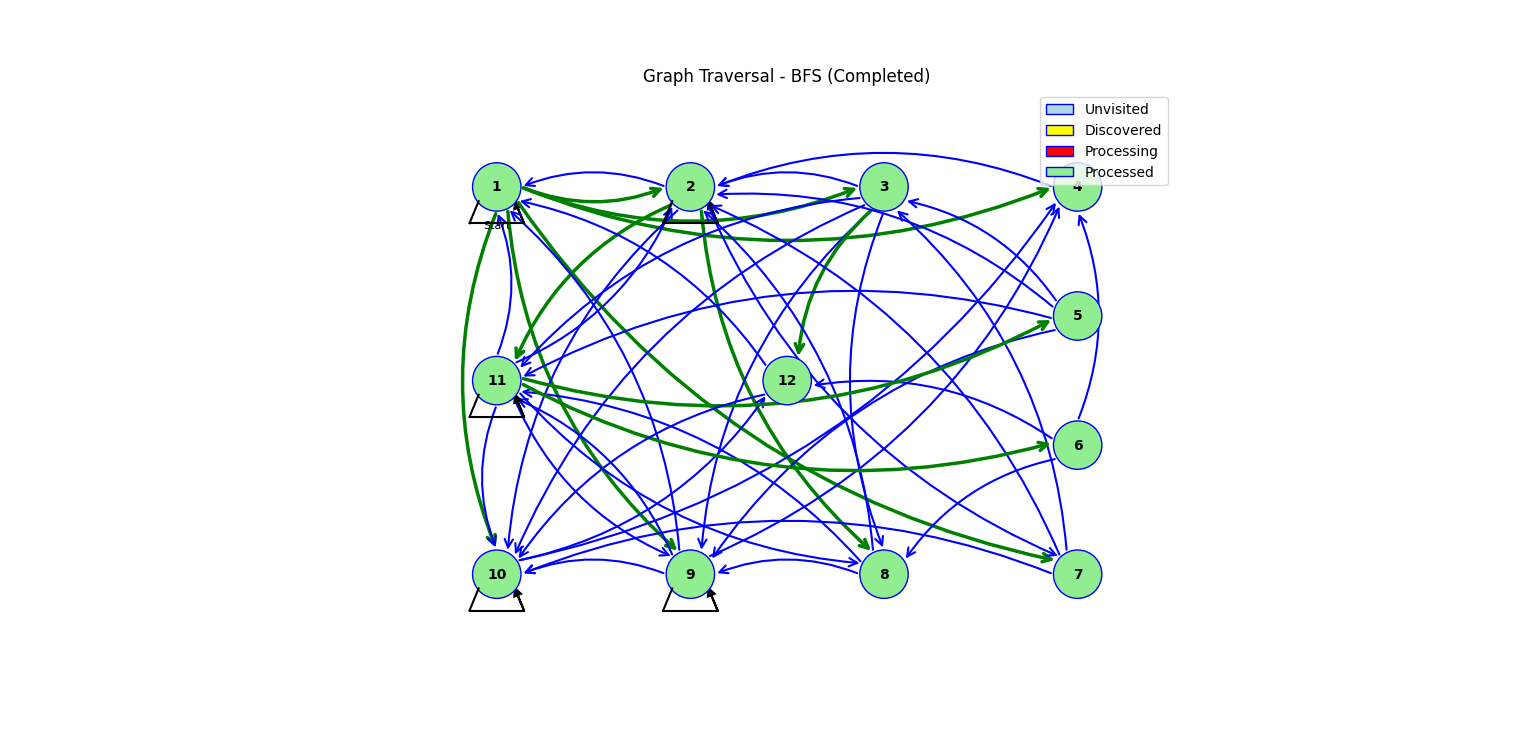
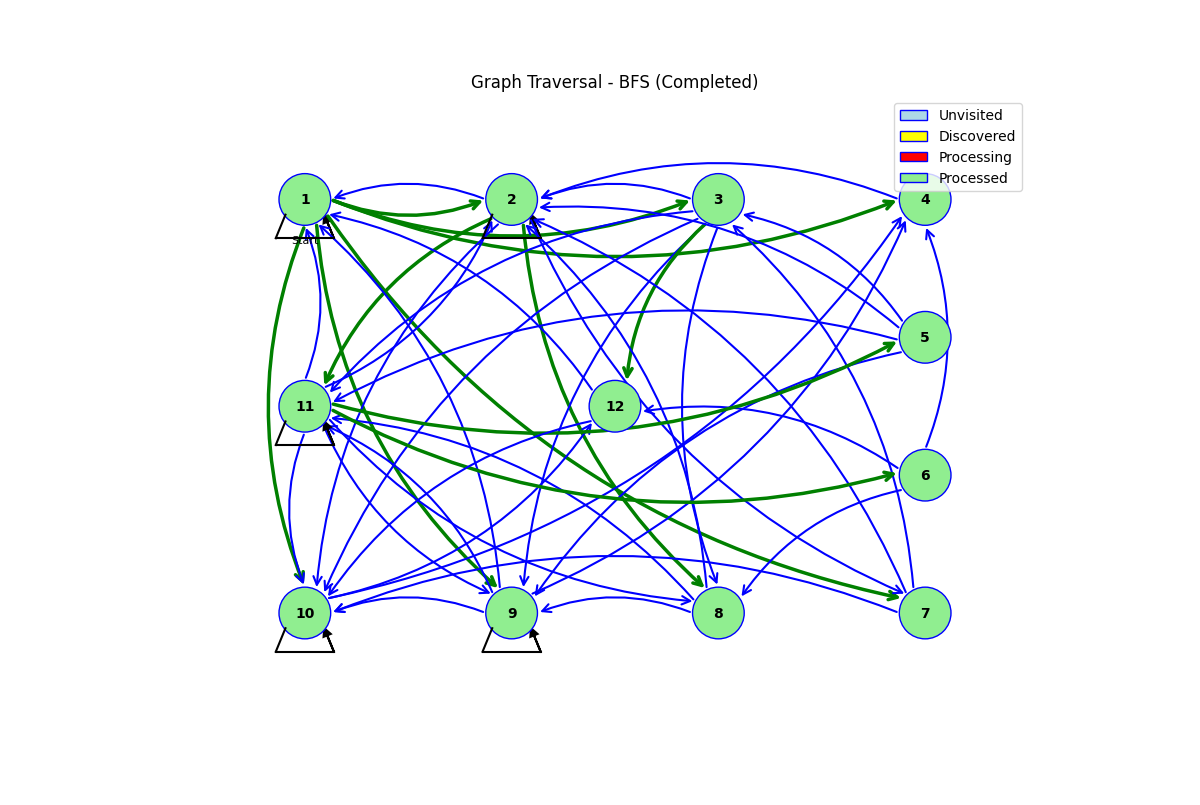
add lab 5

Changed region(s): [[0.2158, 0.122, 0.8633, 0.8236], [0.4008, 0.0915, 0.6475, 0.122]]

diff --git a/lab 5 copy/traversal_methods.py b/lab 5 copy/traversal_methods.py
@@ -2,6 +2,7 @@ import numpy as np
 import matplotlib.pyplot as plt
 from collections import deque
 from matplotlib.patches import Patch
+import time
 from drawing_methods import draw_edge, draw_self_loop
 
 def find_start_vertex(adjacency_matrix):
@@ -12,17 +13,8 @@ def find_start_vertex(adjacency_matrix):
             return i
     return 0  # Default to vertex 0 if no vertices have outgoing edges
 
-def wait_for_key(fig):
-    """Wait for a key press event"""
-    def on_key(event):
-        if event.key:
-            fig.canvas.stop_event_loop()
-    
-    fig.canvas.mpl_connect('key_press_event', on_key)
-    fig.canvas.start_event_loop()
-
 def bfs(adjacency_matrix, start_vertex=None, ax=None, positions=None,
-        vertex_circles=None, edge_arrows=None, step_by_step=False):
+        vertex_circles=None, edge_arrows=None, pause_time=1.0):
     """Performs a breadth-first search traversal of the graph."""
     n = adjacency_matrix.shape[0]
     
@@ -40,9 +32,9 @@ def bfs(adjacency_matrix, start_vertex=None, ax=None, positions=None,
         vertex_circles[start_vertex].set_facecolor('yellow')
         ax.text(positions[start_vertex][0], positions[start_vertex][1] - 0.8, f"Start", 
                 horizontalalignment='center', verticalalignment='center', fontsize=8)
-        if step_by_step:
-            plt.title("BFS: Initial vertex selected (press any key to continue)")
-            wait_for_key(plt.gcf())
+        plt.title("BFS: Initial vertex selected")
+        plt.draw()
+        plt.pause(pause_time)
     
     while queue:
         current = queue.popleft()
@@ -50,9 +42,9 @@ def bfs(adjacency_matrix, start_vertex=None, ax=None, positions=None,
         
         if ax is not None and positions is not None and vertex_circles is not None:
             vertex_circles[current].set_facecolor('red')
-            if step_by_step:
-                plt.title(f"BFS: Processing vertex {current+1} (press any key to continue)")
-                wait_for_key(plt.gcf())
+            plt.title(f"BFS: Processing vertex {current+1}")
+            plt.draw()
+            plt.pause(pause_time)
         
         for neighbor in range(n):
             if adjacency_matrix[current, neighbor] == 1 and not visited[neighbor]:
@@ -67,20 +59,20 @@ def bfs(adjacency_matrix, start_vertex=None, ax=None, positions=None,
                     if edge_key in edge_arrows:
                         edge_arrows[edge_key].set_color('green')
                         edge_arrows[edge_key].set_linewidth(2.5)
-                    if step_by_step:
-                        plt.title(f"BFS: Discovered vertex {neighbor+1} (press any key to continue)")
-                        wait_for_key(plt.gcf())
+                    plt.title(f"BFS: Discovered vertex {neighbor+1}")
+                    plt.draw()
+                    plt.pause(pause_time)
         
         if ax is not None and positions is not None and vertex_circles is not None:
             vertex_circles[current].set_facecolor('lightgreen')
-            if step_by_step:
-                plt.title(f"BFS: Finished processing vertex {current+1} (press any key to continue)")
-                wait_for_key(plt.gcf())
+            plt.title(f"BFS: Finished processing vertex {current+1}")
+            plt.draw()
+            plt.pause(pause_time)
     
     return visited, parent, traversal_edges, traversal_order
 
 def dfs(adjacency_matrix, start_vertex=None, ax=None, positions=None,
-        vertex_circles=None, edge_arrows=None, step_by_step=False):
+        vertex_circles=None, edge_arrows=None, pause_time=1.0):
     """Performs a depth-first search traversal of the graph."""
     n = adjacency_matrix.shape[0]
     
@@ -96,9 +88,9 @@ def dfs(adjacency_matrix, start_vertex=None, ax=None, positions=None,
         vertex_circles[start_vertex].set_facecolor('yellow')
         ax.text(positions[start_vertex][0], positions[start_vertex][1] - 0.8, f"Start", 
                 horizontalalignment='center', verticalalignment='center', fontsize=8)
-        if step_by_step:
-            plt.title("DFS: Initial vertex selected (press any key to continue)")
-            wait_for_key(plt.gcf())
+        plt.title("DFS: Initial vertex selected")
+        plt.draw()
+        plt.pause(pause_time)
     
     def dfs_recursive(current):
         traversal_order.append(current)
@@ -106,9 +98,9 @@ def dfs(adjacency_matrix, start_vertex=None, ax=None, positions=None,
         
         if ax is not None and positions is not None and vertex_circles is not None:
             vertex_circles[current].set_facecolor('red')
-            if step_by_step:
-                plt.title(f"DFS: Processing vertex {current+1} (press any key to continue)")
-                wait_for_key(plt.gcf())
+            plt.title(f"DFS: Processing vertex {current+1}")
+            plt.draw()
+            plt.pause(pause_time)
         
         # Try to visit neighbors in numeric order
         for neighbor in range(n):
@@ -123,18 +115,18 @@ def dfs(adjacency_matrix, start_vertex=None, ax=None, positions=None,
                         edge_arrows[edge_key].set_color('green')
                         edge_arrows[edge_key].set_linewidth(2.5)
                     vertex_circles[neighbor].set_facecolor('yellow')
-                    if step_by_step:
-                        plt.title(f"DFS: Discovered vertex {neighbor+1} (press any key to continue)")
-                        wait_for_key(plt.gcf())
+                    plt.title(f"DFS: Discovered vertex {neighbor+1}")
+                    plt.draw()
+                    plt.pause(pause_time)
                 
                 dfs_recursive(neighbor)
         
         # Update visualization for visited vertex (processed)
         if ax is not None and positions is not None and vertex_circles is not None:
             vertex_circles[current].set_facecolor('lightgreen')
-            if step_by_step:
-                plt.title(f"DFS: Finished processing vertex {current+1} (press any key to continue)")
-                wait_for_key(plt.gcf())
+            plt.title(f"DFS: Finished processing vertex {current+1}")
+            plt.draw()
+            plt.pause(pause_time)
     
     # Start DFS from the designated vertex
     dfs_recursive(start_vertex)
@@ -142,7 +134,7 @@ def dfs(adjacency_matrix, start_vertex=None, ax=None, positions=None,
     return visited, parent, traversal_edges, traversal_order
 
 def complete_graph_traversal(adjacency_matrix, traversal_func, ax=None, positions=None,
-                            vertex_circles=None, edge_arrows=None, step_by_step=False):
+                            vertex_circles=None, edge_arrows=None, pause_time=1.0):
     """Completes a full traversal of the graph, handling disconnected components."""
     n = adjacency_matrix.shape[0]
     all_visited = [False] * n
@@ -164,13 +156,14 @@ def complete_graph_traversal(adjacency_matrix, traversal_func, ax=None, position
                     start_vertex = i
                     break
         
-        if step_by_step:
-            plt.title(f"Starting new traversal from vertex {start_vertex+1} (press any key to continue)")
-            wait_for_key(plt.gcf())
+        if ax is not None:
+            plt.title(f"Starting new traversal from vertex {start_vertex+1}")
+            plt.draw()
+            plt.pause(pause_time)
         
         # Run traversal from start vertex
         visited, parent, traversal_edges, traversal_order = traversal_func(
-            adjacency_matrix, start_vertex, ax, positions, vertex_circles, edge_arrows, step_by_step
+            adjacency_matrix, start_vertex, ax, positions, vertex_circles, edge_arrows, pause_time
         )
         
         # Update all_visited
@@ -185,12 +178,12 @@ def complete_graph_traversal(adjacency_matrix, traversal_func, ax=None, position
     
     return forest, all_traversal_order
 
-def draw_traversal_graph(adjacency_matrix, positions, traversal_func_name):
-    """Draw graph and perform traversal visualization step by step"""
+def draw_traversal_graph(adjacency_matrix, positions, traversal_func_name, pause_time=1.0):
+    """Draw graph and perform traversal visualization with automatic pauses"""
     n = adjacency_matrix.shape[0]
     
+    # Create figure and axis for the graph
     fig, ax = plt.subplots(figsize=(12, 10))
-    plt.ion()  # Turn on interactive mode
     
     vertex_circles = {}
     edge_arrows = {}
@@ -232,8 +225,12 @@ def draw_traversal_graph(adjacency_matrix, positions, traversal_func_name):
     ]
     ax.legend(handles=legend_elements, loc='upper right')
     
+    # Display the initial graph
     plt.draw()
-    plt.pause(1.0)
+    plt.pause(pause_time * 2)  # Longer initial pause
+    
+    print("\nTraversal visualization has started with automatic pauses.")
+    print(f"Each step will pause for {pause_time} seconds.")
     
     # Select traversal function
     if traversal_func_name == "BFS":
@@ -243,7 +240,7 @@ def draw_traversal_graph(adjacency_matrix, positions, traversal_func_name):
     
     # Run the traversal with visualization
     forest, traversal_order = complete_graph_traversal(
-        adjacency_matrix, traversal_func, ax, positions, vertex_circles, edge_arrows, step_by_step=True
+        adjacency_matrix, traversal_func, ax, positions, vertex_circles, edge_arrows, pause_time
     )
     
     print(f"\n{traversal_func_name} Traversal Order:", " -> ".join(str(v+1) for v in traversal_order))
@@ -255,6 +252,6 @@ def draw_traversal_graph(adjacency_matrix, positions, traversal_func_name):
             print(f"  {edge[0]+1} -> {edge[1]+1}")
     
     plt.title(f"Graph Traversal - {traversal_func_name} (Completed)")
-    plt.ioff()  # Turn off interactive mode
+    plt.draw()
     
     return fig, forest, traversal_order

diff --git a/lab 5 copy/main.py b/lab 5 copy/main.py
@@ -20,7 +20,7 @@ def main():
     print("\n=== PART 5: Graph Traversal Analysis ===")
     
     # Generate matrix using existing function with correct coefficient
-    directed_matrix = generate_adjacency_matrix(n, variant_number, k_formula=1)
+    directed_matrix = generate_adjacency_matrix(n, variant_number)
     
     print_matrix(directed_matrix, f"Directed Graph Adjacency Matrix ({n}x{n}) for Traversal")
     
@@ -31,16 +31,23 @@ def main():
     fig = draw_graph(directed_matrix, positions, is_directed=True, title="Graph for Traversal")
     fig.savefig('graph_for_traversal.png')
     
+    print("\nDisplaying initial graph. Close the window to continue.")
+    plt.show(block=True)
+    
     # Perform BFS traversal with visualization
     print("\nStarting Breadth-First Search (BFS)...")
-    print("Press any key in plot window to continue step by step")
-    bfs_fig, bfs_forest, bfs_order = draw_traversal_graph(directed_matrix, positions, "BFS")
+    print("The visualization will pause at each step. Please wait...")
+    bfs_fig, bfs_forest, bfs_order = draw_traversal_graph(directed_matrix, positions, "BFS", pause_time=2.0)
     bfs_fig.savefig('bfs_traversal.png')
+    
+    # Show BFS results and wait for user to close window
+    print("\nBFS traversal completed. Close the window to continue to DFS.")
+    plt.show(block=True)
     
     # Perform DFS traversal with visualization
     print("\nStarting Depth-First Search (DFS)...")
-    print("Press any key in plot window to continue step by step")
-    dfs_fig, dfs_forest, dfs_order = draw_traversal_graph(directed_matrix, positions, "DFS")
+    print("The visualization will pause at each step. Please wait...")
+    dfs_fig, dfs_forest, dfs_order = draw_traversal_graph(directed_matrix, positions, "DFS", pause_time=2.0)
     dfs_fig.savefig('dfs_traversal.png')
     
     # Analyze and compare traversals
@@ -56,7 +63,8 @@ def main():
     dfs_tree_edges = sum(len(tree) for tree in dfs_forest)
     print(f"DFS created {len(dfs_forest)} tree(s) with a total of {dfs_tree_edges} edges")
     
-    plt.show()
+    print("\nDFS traversal completed. Close the window to exit.")
+    plt.show(block=True)
 
 if __name__ == "__main__":
     main()

diff --git a/lab 5 copy/matrix_methods.py b/lab 5 copy/matrix_methods.py
@@ -15,18 +15,18 @@ def calculate_degrees(matrix, is_directed=True):
         degrees = np.sum(matrix, axis=1)
         return degrees
 
-def generate_adjacency_matrix(n, variant_number, k_formula=1):
-    """Generate directed adjacency matrix based on variant number and k_formula
-    k_formula=1: k = 1.0 - n3 * 0.01 - n4 * 0.005 - 0.15
+def generate_adjacency_matrix(n, variant_number, k=None):
+    """Generate directed adjacency matrix based on variant number and coefficient k
+    If k is None, it will be calculated as k = 1.0 - n3 * 0.01 - n4 * 0.005 - 0.15
     """
     np.random.seed(variant_number)
     T = np.random.random((n, n)) * 2.0
     
-    n3 = 2  # From variant
-    n4 = 9  # From variant
-    
-    # Calculate coefficient k based on formula from requirements
-    k = 1.0 - n3 * 0.01 - n4 * 0.005 - 0.15
+    # Calculate coefficient k if not provided
+    if k is None:
+        n3 = 2  # From variant
+        n4 = 9  # From variant
+        k = 1.0 - n3 * 0.01 - n4 * 0.005 - 0.15
     
     print(f"Using k coefficient: {k}")
     
